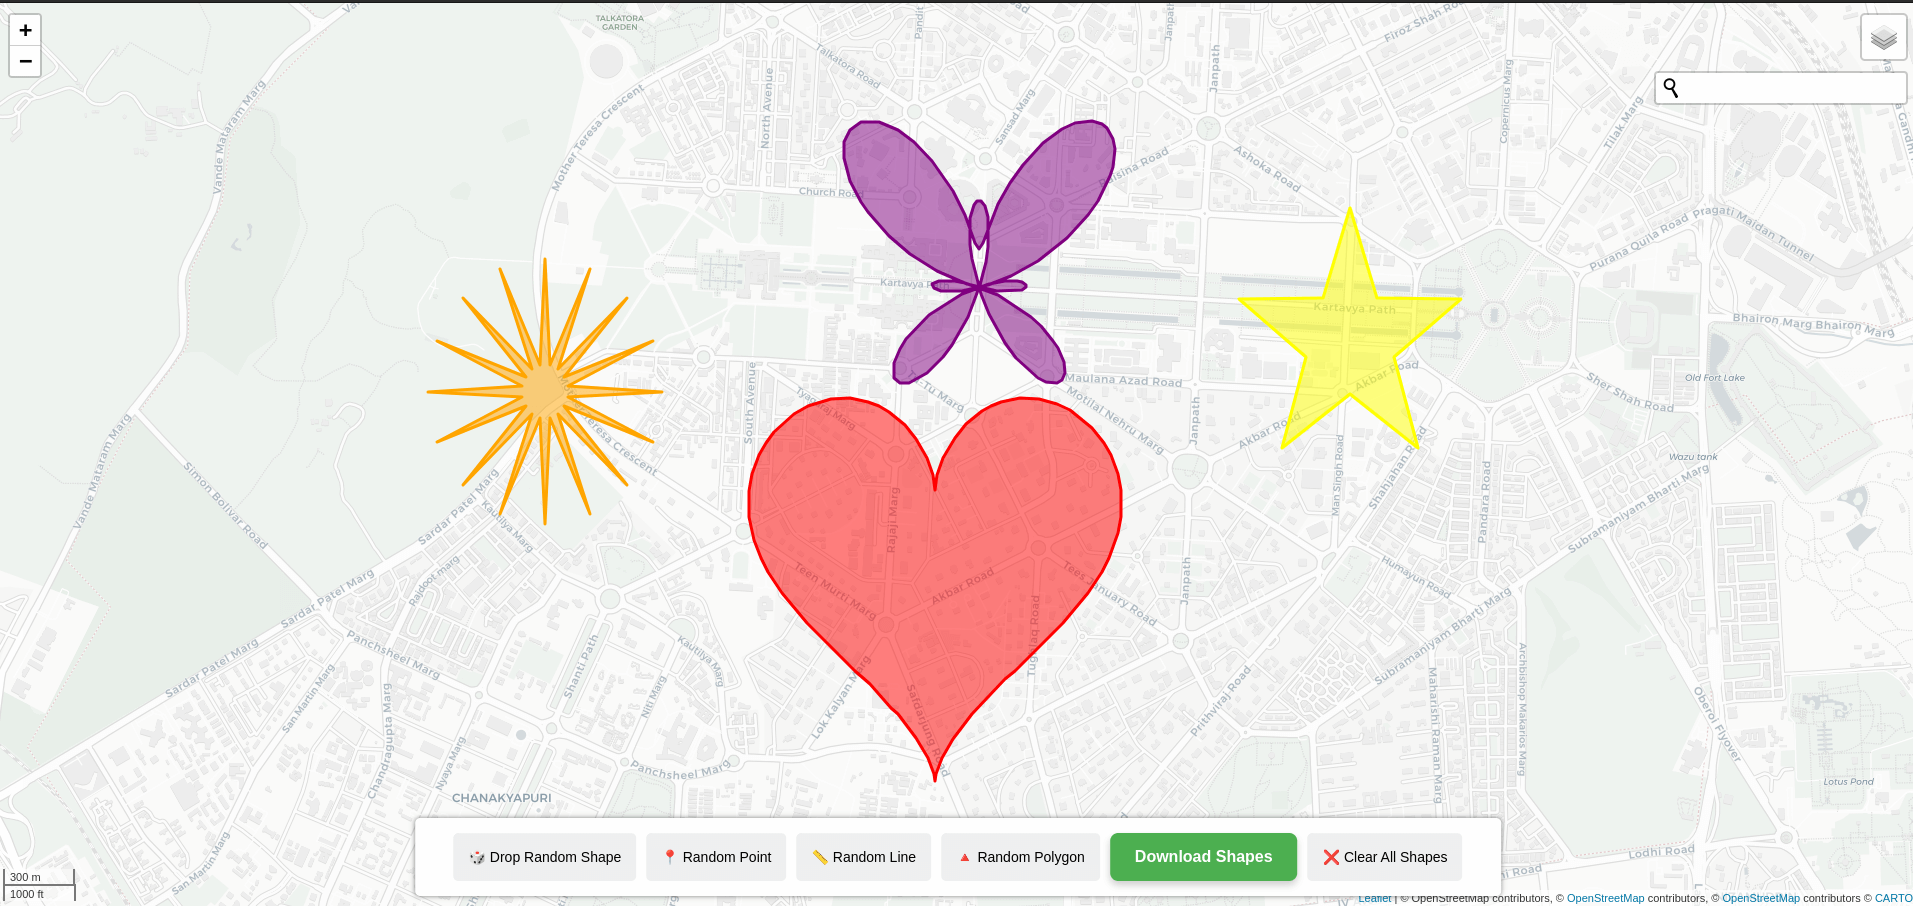
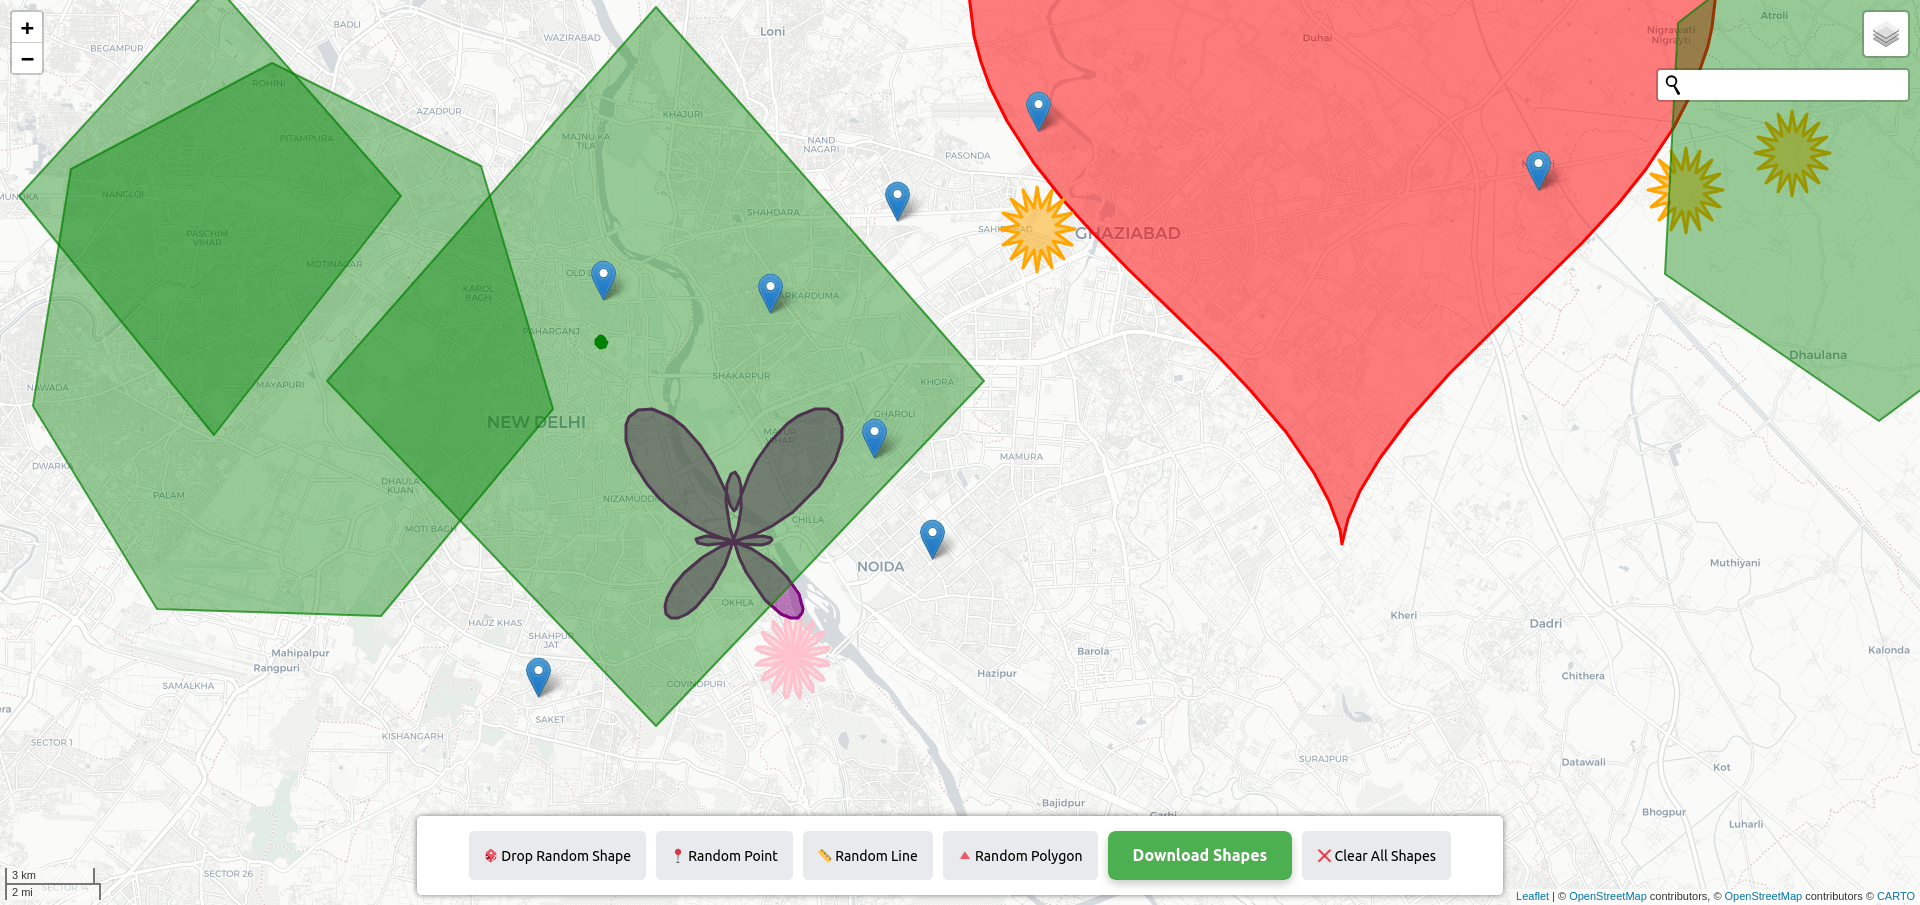
scale shapes (#4)
* feat: scaled shapes

* bugfix: fixed butterfly & starburst scaling

diff --git a/js/script.js b/js/script.js
@@ -135,6 +135,19 @@ function dropRandomShapeAtCenter() {
     dropShape(shape, lat, lon);
 }
 
+function dropRandomShapeInVisibleRegion() {
+    const shape = getRandomShape();
+    const bounds = map.getBounds(); // Get the visible map bounds
+    const southWest = bounds.getSouthWest();
+    const northEast = bounds.getNorthEast();
+
+    const lat = Math.random() * (northEast.lat - southWest.lat) + southWest.lat;
+    const lon = Math.random() * (northEast.lng - southWest.lng) + southWest.lng;
+
+    dropShape(shape, lat, lon);
+}
+
+
 function dropRandomShapeAtClickedLatLng() {
     const shape = getRandomShape();  // Pick a random shape
     const lat = parseFloat(contextMenu.getAttribute('data-lat'));
@@ -229,8 +242,8 @@ function dropHeart(lat, lon) {
 
 function generateStarCoordinates(centerLat, centerLon, zoomScale) {
     const points = 5;
-    const radiusOuter = 0.005 * zoomScale; // Scaled outer radius
-    const radiusInner = 0.002 * zoomScale; // Scaled inner radius
+    const radiusOuter = 0.01 * zoomScale;
+    const radiusInner = 0.004 * zoomScale;
     const angle = Math.PI / points;
 
     let coords = [];
@@ -245,8 +258,8 @@ function generateStarCoordinates(centerLat, centerLon, zoomScale) {
 
 function dropStar(lat, lon) {
     const zoomLevel = map.getZoom();
-    const baseScale = 0.001;
-    const zoomScale = baseScale * Math.pow(2, 15 - zoomLevel); // Scale based on zoom level
+    const baseScale = 0.0008; 
+    const zoomScale = Math.max(baseScale * Math.pow(2, 13 - zoomLevel), baseScale * 2); 
 
     const starCoords = generateStarCoordinates(lat, lon, zoomScale);
     L.polygon(starCoords, { color: 'yellow', fillOpacity: 0.5 }).addTo(map);
@@ -255,10 +268,11 @@ function dropStar(lat, lon) {
 }
 
 
+
 function generateFlowerCoordinates(centerLat, centerLon, zoomScale) {
     const petals = 8;
-    const baseScale = 0.002;
-    const scale = baseScale * zoomScale; // Scale adjusted based on the zoom level
+    const baseScale = 0.1;
+    const scale = baseScale * zoomScale;
 
     const coords = [];
     for (let t = 0; t <= 2 * Math.PI; t += 0.01) {
@@ -272,18 +286,22 @@ function generateFlowerCoordinates(centerLat, centerLon, zoomScale) {
 
 function dropFlower(lat, lon) {
     const zoomLevel = map.getZoom();
-    const baseScale = 0.001;
-    const zoomScale = baseScale * Math.pow(2, 15 - zoomLevel); // Adjust scale according to zoom
+    const baseScale = 0.05;
+    const zoomScale = 0.0005 * Math.pow(2, 20 - zoomLevel);
 
     const flowerCoords = generateFlowerCoordinates(lat, lon, zoomScale);
-    L.polygon(flowerCoords, { color: 'pink', fillOpacity: 0.5 }).addTo(map);
+    const flowerShape = L.polygon(flowerCoords, { color: 'pink', fillOpacity: 0.5 }).addTo(map);
+
+    flowerShape.enableEdit(map);
 
     storeShapeAsGeoJson('flower', flowerCoords);
 }
 
 
-function generateButterflyCoordinates(centerLat, centerLon) {
-    const scale = 0.002;
+
+function generateButterflyCoordinates(centerLat, centerLon, zoomScale) {
+    const baseScale = 0.1; // Increase base scale for better visibility
+    const scale = baseScale * zoomScale; // Apply zoom scaling
 
     const coords = [];
     for (let t = 0; t <= 2 * Math.PI; t += 0.01) {
@@ -295,12 +313,18 @@ function generateButterflyCoordinates(centerLat, centerLon) {
 }
 
 function dropButterfly(lat, lon) {
-    const butterflyCoords = generateButterflyCoordinates(lat, lon);
-    L.polygon(butterflyCoords, { color: 'purple', fillOpacity: 0.5 }).addTo(map);
-    //map.fitBounds([[lat, lon], ...butterflyCoords]);
+    const zoomLevel = map.getZoom();
+    const baseScale = 0.05; // Adjust base scale for proper sizing
+    const zoomScale = 0.0005 * Math.pow(2, 20 - zoomLevel); // Adjust scaling to make it visible at all zoom levels
+
+    const butterflyCoords = generateButterflyCoordinates(lat, lon, zoomScale);
+    const butterflyShape = L.polygon(butterflyCoords, { color: 'purple', fillOpacity: 0.5 }).addTo(map);
+
+    butterflyShape.enableEdit(map);
 
     storeShapeAsGeoJson('butterfly', butterflyCoords);
 }
+
 
 function generateSpiralCoordinates(centerLat, centerLon) {
     const turns = 4;
@@ -324,10 +348,12 @@ function dropSpiral(lat, lon) {
     storeShapeAsGeoJson('spiral', spiralCoords);
 }
 
-function generateStarburstCoordinates(centerLat, centerLon) {
+function generateStarburstCoordinates(centerLat, centerLon, zoomScale) {
     const rays = 16;
-    const radiusOuter = 0.005;
-    const radiusInner = 0.001;
+    const baseRadiusOuter = 0.1;
+    const baseRadiusInner = 0.05;
+    const radiusOuter = baseRadiusOuter * zoomScale;
+    const radiusInner = baseRadiusInner * zoomScale;
     const angle = Math.PI / rays;
 
     let coords = [];
@@ -341,12 +367,18 @@ function generateStarburstCoordinates(centerLat, centerLon) {
 }
 
 function dropStarburst(lat, lon) {
-    const starburstCoords = generateStarburstCoordinates(lat, lon);
-    L.polygon(starburstCoords, { color: 'orange', fillOpacity: 0.5 }).addTo(map);
-    //map.fitBounds([[lat, lon], ...starburstCoords]);
+    const zoomLevel = map.getZoom();
+    const baseScale = 0.0005;
+    const zoomScale = baseScale * Math.pow(2, 20 - zoomLevel);
+
+    const starburstCoords = generateStarburstCoordinates(lat, lon, zoomScale);
+    const starburstShape = L.polygon(starburstCoords, { color: 'orange', fillOpacity: 0.5 }).addTo(map);
+    
+    starburstShape.enableEdit(map);
 
     storeShapeAsGeoJson('starburst', starburstCoords);
 }
+
 
 function getRandomLatLng() {
     const bounds = map.getBounds(); // Get the current map bounds

diff --git a/index.html b/index.html
@@ -49,7 +49,7 @@
     </div>
     
     <footer>
-        <button onclick="dropRandomShapeAtCenter()">🎲 Drop Random Shape</button>
+        <button onclick="dropRandomShapeInVisibleRegion()">🎲 Drop Random Shape</button>
         <button onclick="drawRandomPoint()">📍 Random Point</button>
         <button onclick="drawRandomLine()">📏 Random Line</button>
         <button onclick="drawRandomPolygon()">🔺 Random Polygon</button>
@@ -62,6 +62,8 @@
     <script src="https://unpkg.com/leaflet-control-geocoder/dist/Control.Geocoder.js" defer></script>
     <script src="https://cdnjs.cloudflare.com/ajax/libs/jszip/3.7.1/jszip.min.js" defer></script>
     <script src="https://cdnjs.cloudflare.com/ajax/libs/FileSaver.js/2.0.5/FileSaver.min.js" defer></script>
+    <script src="https://unpkg.com/leaflet-editable@1.2.0/dist/leaflet-editable.js"></script>
+
     <script src="js/script.js" defer></script>
 
 </body>
